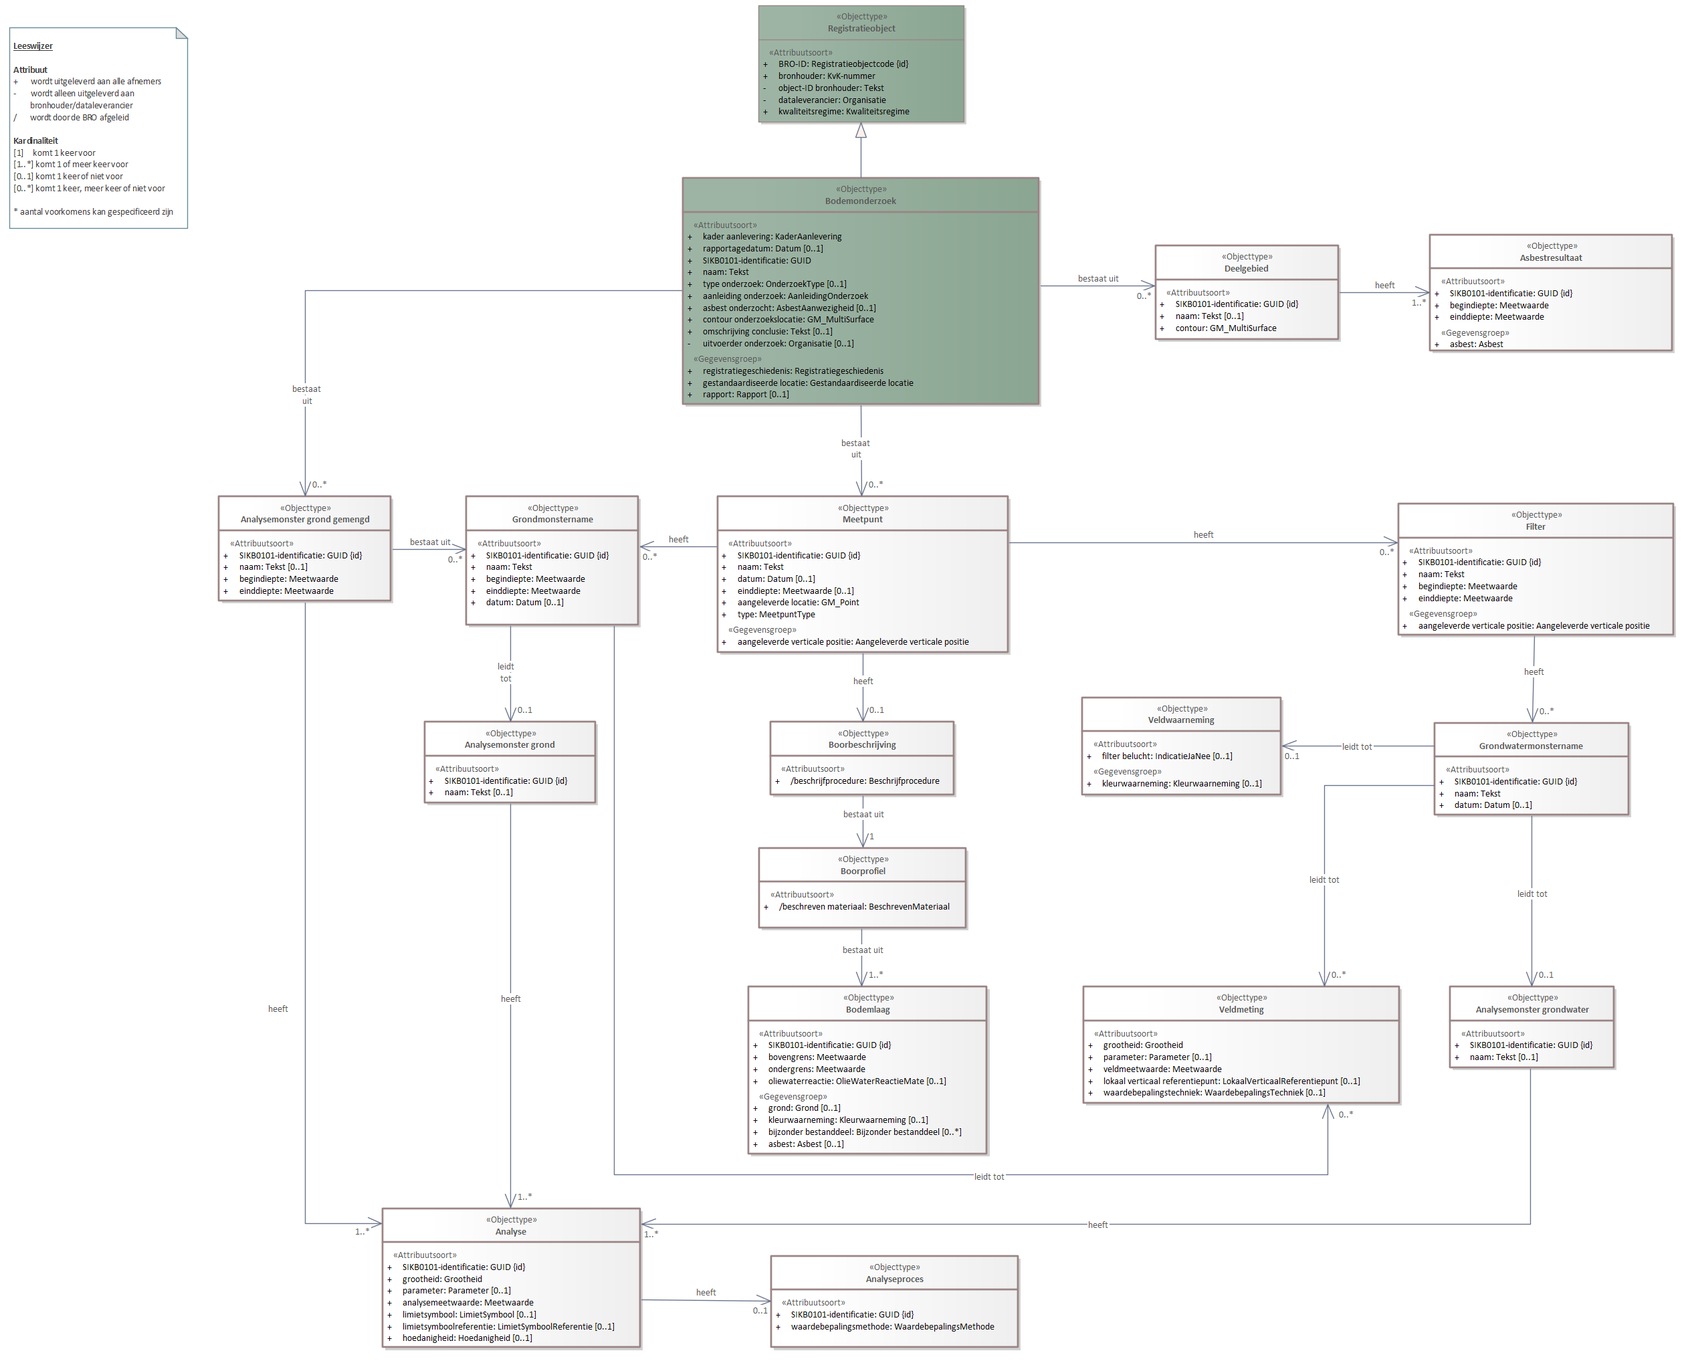
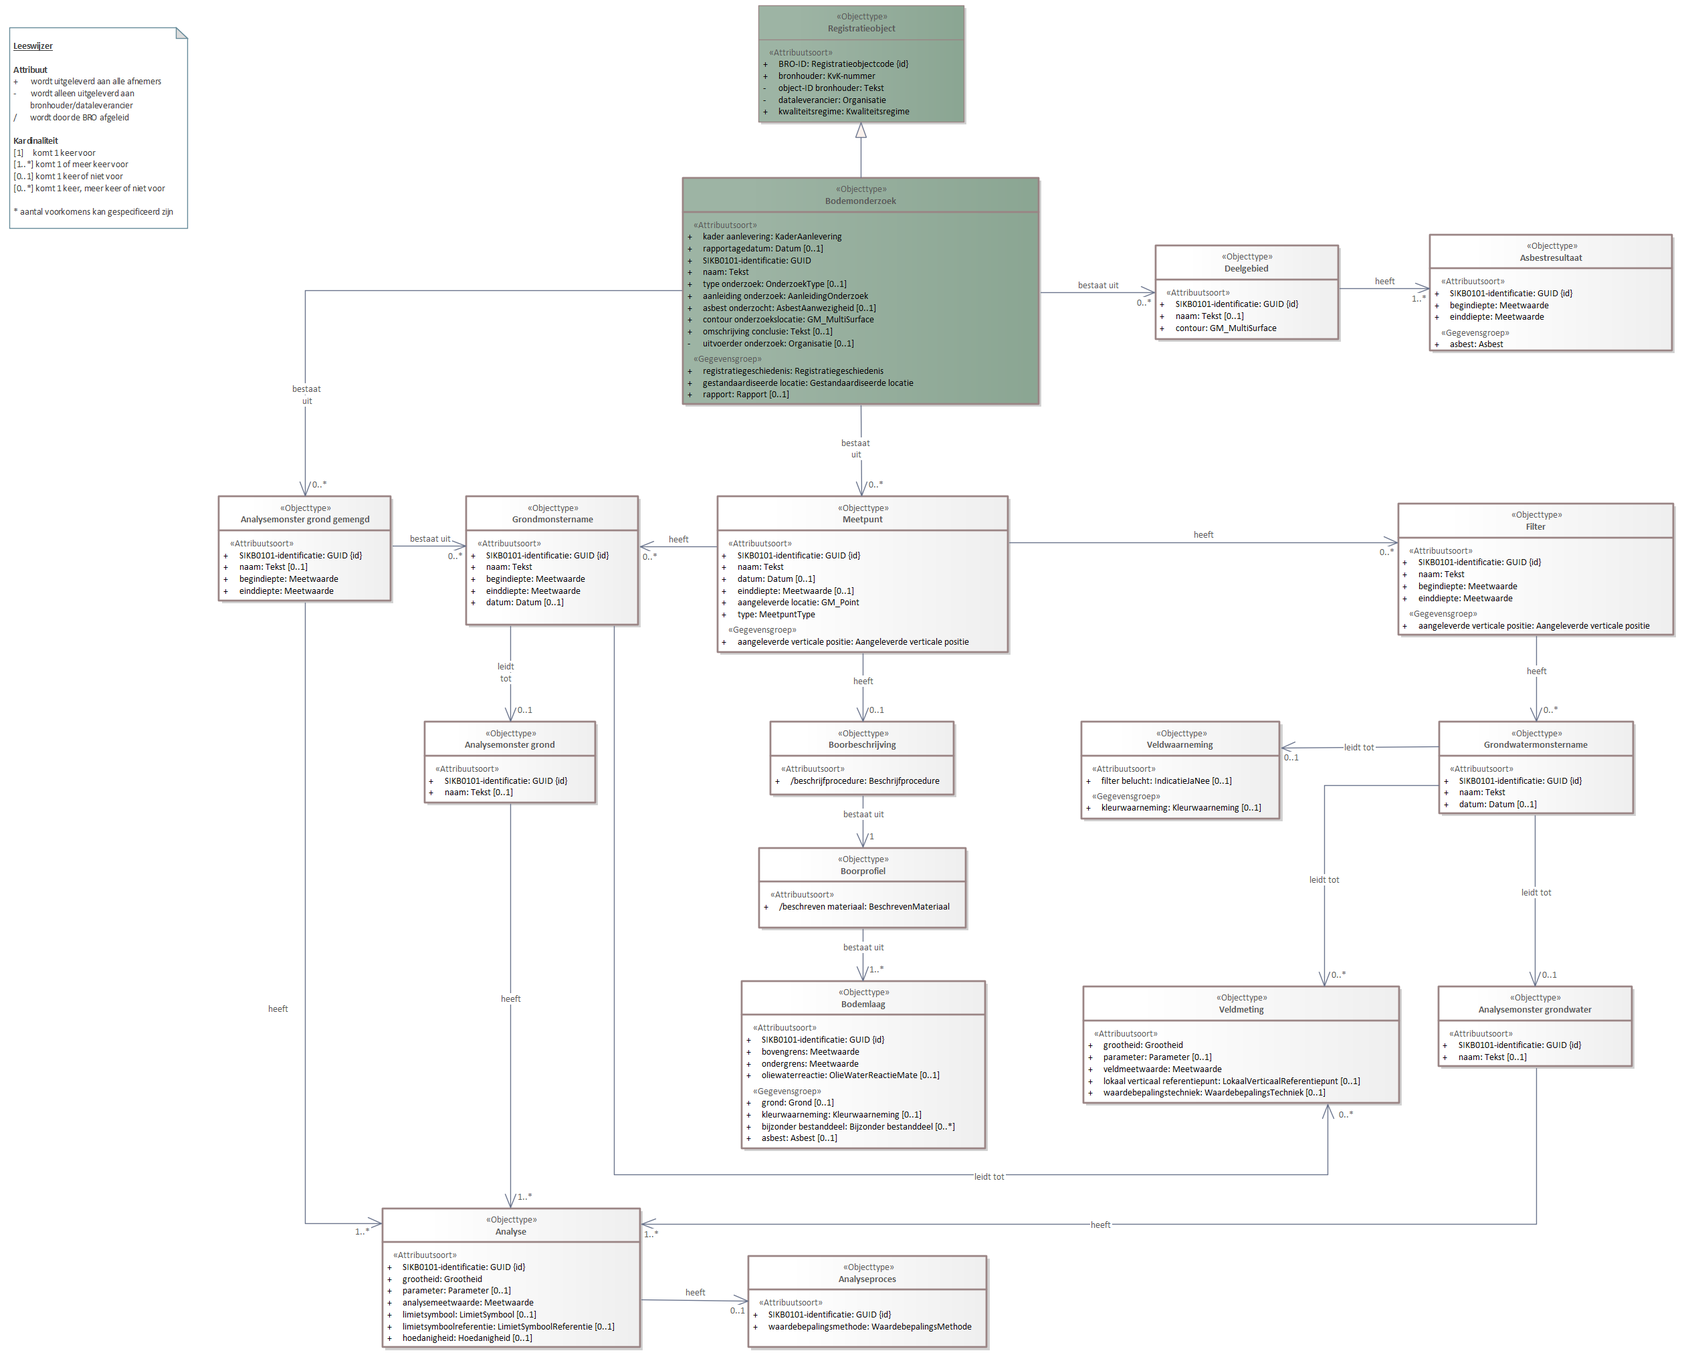
Conceptualmodel-MilieuhygienischbodemonderzoekSAD-1.08-1-20231205-20240213-112434

diff --git a/data/SAD-cat.msword.html b/data/SAD-cat.msword.html
@@ -15,7 +15,7 @@
    <body>
       <p>Conceptual model/Milieuhygienisch bodemonderzoek SAD/20231205</p>
       <p>Imvertor: Nightly-build.13</p>
-      <p>Model release: Conceptualmodel-MilieuhygienischbodemonderzoekSAD-1.08-1-20231205-20240213-110849</p>
+      <p>Model release: Conceptualmodel-MilieuhygienischbodemonderzoekSAD-1.08-1-20231205-20240213-112434</p>
       <hr>
       <section>
          <h1>Artikel 1 Definitie van registratieobject, entiteiten en attributen</h1>
@@ -67,7 +67,7 @@
          <section>
             <h2>Het domeinmodel</h2>
             <section>
-               <div class="imageinfo overview"><img src="Images/EAID_FABA90F8_223C_433d_BAE3_74F87B3DC220.png" usemap="#imagemap-EAID_FABA90F8_223C_433d_BAE3_74F87B3DC220" alt="Diagram &#xA;                        &#xA;                     "><map name="imagemap-EAID_FABA90F8_223C_433d_BAE3_74F87B3DC220"><area shape="rect" alt="Asbestresultaat" coords="2138,351,2501,525" href="#global_class_Model_Asbestresultaat"><area shape="rect" alt="Deelgebied" coords="1728,367,2002,508" href="#global_class_Model_Deelgebied"><area shape="rect" alt="Analyseproces" coords="1153,1878,1523,2015" href="#global_class_Model_Analyseproces"><area shape="rect" alt="Analyse" coords="572,1807,958,2015" href="#global_class_Model_Analyse"><area shape="rect" alt="Analysemonster grondwater" coords="2168,1475,2414,1597" href="#global_class_Model_Analysemonstergrondwater"><area shape="rect" alt="Analysemonster grond" coords="635,1079,891,1201" href="#global_class_Model_Analysemonstergrond"><area shape="rect" alt="Boorprofiel" coords="1135,1268,1445,1388" href="#global_class_Model_Boorprofiel"><area shape="rect" alt="Boorbeschrijving" coords="1152,1079,1427,1189" href="#global_class_Model_Boorbeschrijving"><area shape="rect" alt="Veldmeting" coords="1620,1475,2093,1650" href="#global_class_Model_Veldmeting"><area shape="rect" alt="Veldwaarneming" coords="1618,1043,1916,1189" href="#global_class_Model_Veldwaarneming"><area shape="rect" alt="Analysemonster grond gemengd" coords="327,742,585,899" href="#global_class_Model_Analysemonstergrondgemengd"><area shape="rect" alt="Grondwatermonstername" coords="2145,1081,2436,1219" href="#global_class_Model_Grondwatermonstername"><area shape="rect" alt="Grondmonstername" coords="697,742,955,935" href="#global_class_Model_Grondmonstername"><area shape="rect" alt="Filter" coords="2091,753,2503,950" href="#global_class_Model_Filter"><area shape="rect" alt="Bodemlaag" coords="1119,1475,1476,1726" href="#global_class_Model_Bodemlaag"><area shape="rect" alt="Meetpunt" coords="1073,742,1508,976" href="#global_class_Model_Meetpunt"><area shape="rect" alt="Registratieobject" coords="1134,8,1442,183" href="#global_class_Model_Registratieobject"><area shape="rect" alt="Bodemonderzoek" coords="1021,266,1554,605" href="#global_class_Model_Bodemonderzoek"></map><p><b>Domeinmodel milieuhygiënisch bodemonderzoek</b></p>
+               <div class="imageinfo overview"><img src="Images/EAID_FABA90F8_223C_433d_BAE3_74F87B3DC220.png" usemap="#imagemap-EAID_FABA90F8_223C_433d_BAE3_74F87B3DC220" alt="Diagram &#xA;                        &#xA;                     "><map name="imagemap-EAID_FABA90F8_223C_433d_BAE3_74F87B3DC220"><area shape="rect" alt="Asbestresultaat" coords="2138,351,2501,525" href="#global_class_Model_Asbestresultaat"><area shape="rect" alt="Deelgebied" coords="1728,367,2002,508" href="#global_class_Model_Deelgebied"><area shape="rect" alt="Analyseproces" coords="1119,1878,1476,2015" href="#global_class_Model_Analyseproces"><area shape="rect" alt="Analyse" coords="572,1807,958,2015" href="#global_class_Model_Analyse"><area shape="rect" alt="Analysemonster grondwater" coords="2151,1475,2441,1595" href="#global_class_Model_Analysemonstergrondwater"><area shape="rect" alt="Analysemonster grond" coords="635,1079,891,1201" href="#global_class_Model_Analysemonstergrond"><area shape="rect" alt="Boorprofiel" coords="1135,1268,1445,1388" href="#global_class_Model_Boorprofiel"><area shape="rect" alt="Boorbeschrijving" coords="1152,1079,1427,1189" href="#global_class_Model_Boorbeschrijving"><area shape="rect" alt="Veldmeting" coords="1620,1475,2093,1650" href="#global_class_Model_Veldmeting"><area shape="rect" alt="Veldwaarneming" coords="1617,1079,1914,1225" href="#global_class_Model_Veldwaarneming"><area shape="rect" alt="Analysemonster grond gemengd" coords="327,742,585,899" href="#global_class_Model_Analysemonstergrondgemengd"><area shape="rect" alt="Grondwatermonstername" coords="2152,1079,2443,1217" href="#global_class_Model_Grondwatermonstername"><area shape="rect" alt="Grondmonstername" coords="697,742,955,935" href="#global_class_Model_Grondmonstername"><area shape="rect" alt="Filter" coords="2091,753,2503,950" href="#global_class_Model_Filter"><area shape="rect" alt="Bodemlaag" coords="1109,1467,1474,1718" href="#global_class_Model_Bodemlaag"><area shape="rect" alt="Meetpunt" coords="1073,742,1508,976" href="#global_class_Model_Meetpunt"><area shape="rect" alt="Registratieobject" coords="1134,8,1442,183" href="#global_class_Model_Registratieobject"><area shape="rect" alt="Bodemonderzoek" coords="1021,266,1554,605" href="#global_class_Model_Bodemonderzoek"></map><p><b>Domeinmodel milieuhygiënisch bodemonderzoek</b></p>
                </div>
             </section>
          </section>
@@ -771,11 +771,11 @@
                               <th>Toelichting</th>
                               <td>
                                  
-                                 <p>Voor gegevens die zijn aangeleverd onder IMBRO/A in het kader van archiefoverdracht
-                                    is het gegeven niet altijd vastgelegd.
-                                    Afhankelijk van de gehanteerde onderzoeksmethode kunnen de asbestresultaten betrekking
+                                 <p>Afhankelijk van de gehanteerde onderzoeksmethode kunnen de asbestresultaten betrekking
                                     hebben op een (dieptetraject binnen) een deelgebied of op de bodemlaag van een individueel
-                                    meetpunt.</p>
+                                    meetpunt.<br clear="none">
+                                    Voor gegevens die zijn aangeleverd onder IMBRO/A in het kader van archiefoverdracht
+                                    is het gegeven <em>asbest onderzocht</em> niet altijd vastgelegd.</p>
                                  </td>
                            </tr>
                         </tbody>
@@ -941,7 +941,7 @@
                         </tbody>
                      </table>
                      </section>
-                  <section id="detail_d104896e4984">
+                  <section id="detail_d104896e4989">
                      <h4>  registratiegeschiedenis</h4>
                      <table style="width: 100%;">
                         <colgroup style="width: 30%;"></colgroup>
@@ -989,7 +989,7 @@
                         </tbody>
                      </table>
                   </section>
-                  <section id="detail_d104896e5212">
+                  <section id="detail_d104896e5217">
                      <h4>  gestandaardiseerde locatie</h4>
                      <table style="width: 100%;">
                         <colgroup style="width: 30%;"></colgroup>
@@ -1034,7 +1034,7 @@
                         </tbody>
                      </table>
                   </section>
-                  <section id="detail_d104896e5440">
+                  <section id="detail_d104896e5445">
                      <h4>  rapport</h4>
                      <table style="width: 100%;">
                         <colgroup style="width: 30%;"></colgroup>
@@ -2508,7 +2508,7 @@
                         </tbody>
                      </table>
                      </section>
-                  <section id="detail_d104896e11004">
+                  <section id="detail_d104896e11009">
                      <h4>  aangeleverde verticale positie</h4>
                      <table style="width: 100%;">
                         <colgroup style="width: 30%;"></colgroup>
@@ -3464,7 +3464,7 @@
                         </tbody>
                      </table>
                      </section>
-                  <section id="detail_d104896e14114">
+                  <section id="detail_d104896e14119">
                      <h4>  grond</h4>
                      <table style="width: 100%;">
                         <colgroup style="width: 30%;"></colgroup>
@@ -3507,7 +3507,7 @@
                         </tbody>
                      </table>
                   </section>
-                  <section id="detail_d104896e14346">
+                  <section id="detail_d104896e14351">
                      <h4>  kleurwaarneming</h4>
                      <table style="width: 100%;">
                         <colgroup style="width: 30%;"></colgroup>
@@ -3541,7 +3541,7 @@
                         </tbody>
                      </table>
                   </section>
-                  <section id="detail_d104896e14531">
+                  <section id="detail_d104896e14536">
                      <h4>  bijzonder bestanddeel</h4>
                      <table style="width: 100%;">
                         <colgroup style="width: 30%;"></colgroup>
@@ -3575,7 +3575,7 @@
                         </tbody>
                      </table>
                   </section>
-                  <section id="detail_d104896e14716">
+                  <section id="detail_d104896e14721">
                      <h4>  asbest</h4>
                      <table style="width: 100%;">
                         <colgroup style="width: 30%;"></colgroup>
@@ -5470,7 +5470,7 @@
                         </tbody>
                      </table>
                      </section>
-                  <section id="detail_d104896e22114">
+                  <section id="detail_d104896e22119">
                      <h4>  aangeleverde verticale positie</h4>
                      <table style="width: 100%;">
                         <colgroup style="width: 30%;"></colgroup>
@@ -5939,7 +5939,7 @@
                         </tbody>
                      </table>
                      </section>
-                  <section id="detail_d104896e23931">
+                  <section id="detail_d104896e23936">
                      <h4>  kleurwaarneming</h4>
                      <table style="width: 100%;">
                         <colgroup style="width: 30%;"></colgroup>
@@ -7484,7 +7484,7 @@
                         </tbody>
                      </table>
                      </section>
-                  <section id="detail_d104896e29684">
+                  <section id="detail_d104896e29689">
                      <h4>  asbest</h4>
                      <table style="width: 100%;">
                         <colgroup style="width: 30%;"></colgroup>

diff --git a/data/SAD-cat.respec.html b/data/SAD-cat.respec.html
@@ -45,7 +45,7 @@
       </section>
    <section>
       <h2>Het domeinmodel   </h2>
-      <div class="imageinfo overview"><img src="data/Images/EAID_FABA90F8_223C_433d_BAE3_74F87B3DC220.png" usemap="#imagemap-EAID_FABA90F8_223C_433d_BAE3_74F87B3DC220" alt="Diagram &#xA;                        &#xA;                     "><map name="imagemap-EAID_FABA90F8_223C_433d_BAE3_74F87B3DC220"><area shape="rect" alt="Asbestresultaat" coords="2138,351,2501,525" href="#global_class_Model_Asbestresultaat"><area shape="rect" alt="Deelgebied" coords="1728,367,2002,508" href="#global_class_Model_Deelgebied"><area shape="rect" alt="Analyseproces" coords="1153,1878,1523,2015" href="#global_class_Model_Analyseproces"><area shape="rect" alt="Analyse" coords="572,1807,958,2015" href="#global_class_Model_Analyse"><area shape="rect" alt="Analysemonster grondwater" coords="2168,1475,2414,1597" href="#global_class_Model_Analysemonstergrondwater"><area shape="rect" alt="Analysemonster grond" coords="635,1079,891,1201" href="#global_class_Model_Analysemonstergrond"><area shape="rect" alt="Boorprofiel" coords="1135,1268,1445,1388" href="#global_class_Model_Boorprofiel"><area shape="rect" alt="Boorbeschrijving" coords="1152,1079,1427,1189" href="#global_class_Model_Boorbeschrijving"><area shape="rect" alt="Veldmeting" coords="1620,1475,2093,1650" href="#global_class_Model_Veldmeting"><area shape="rect" alt="Veldwaarneming" coords="1618,1043,1916,1189" href="#global_class_Model_Veldwaarneming"><area shape="rect" alt="Analysemonster grond gemengd" coords="327,742,585,899" href="#global_class_Model_Analysemonstergrondgemengd"><area shape="rect" alt="Grondwatermonstername" coords="2145,1081,2436,1219" href="#global_class_Model_Grondwatermonstername"><area shape="rect" alt="Grondmonstername" coords="697,742,955,935" href="#global_class_Model_Grondmonstername"><area shape="rect" alt="Filter" coords="2091,753,2503,950" href="#global_class_Model_Filter"><area shape="rect" alt="Bodemlaag" coords="1119,1475,1476,1726" href="#global_class_Model_Bodemlaag"><area shape="rect" alt="Meetpunt" coords="1073,742,1508,976" href="#global_class_Model_Meetpunt"><area shape="rect" alt="Registratieobject" coords="1134,8,1442,183" href="#global_class_Model_Registratieobject"><area shape="rect" alt="Bodemonderzoek" coords="1021,266,1554,605" href="#global_class_Model_Bodemonderzoek"></map><p><b>Domeinmodel milieuhygiënisch bodemonderzoek</b></p>
+      <div class="imageinfo overview"><img src="data/Images/EAID_FABA90F8_223C_433d_BAE3_74F87B3DC220.png" usemap="#imagemap-EAID_FABA90F8_223C_433d_BAE3_74F87B3DC220" alt="Diagram &#xA;                        &#xA;                     "><map name="imagemap-EAID_FABA90F8_223C_433d_BAE3_74F87B3DC220"><area shape="rect" alt="Asbestresultaat" coords="2138,351,2501,525" href="#global_class_Model_Asbestresultaat"><area shape="rect" alt="Deelgebied" coords="1728,367,2002,508" href="#global_class_Model_Deelgebied"><area shape="rect" alt="Analyseproces" coords="1119,1878,1476,2015" href="#global_class_Model_Analyseproces"><area shape="rect" alt="Analyse" coords="572,1807,958,2015" href="#global_class_Model_Analyse"><area shape="rect" alt="Analysemonster grondwater" coords="2151,1475,2441,1595" href="#global_class_Model_Analysemonstergrondwater"><area shape="rect" alt="Analysemonster grond" coords="635,1079,891,1201" href="#global_class_Model_Analysemonstergrond"><area shape="rect" alt="Boorprofiel" coords="1135,1268,1445,1388" href="#global_class_Model_Boorprofiel"><area shape="rect" alt="Boorbeschrijving" coords="1152,1079,1427,1189" href="#global_class_Model_Boorbeschrijving"><area shape="rect" alt="Veldmeting" coords="1620,1475,2093,1650" href="#global_class_Model_Veldmeting"><area shape="rect" alt="Veldwaarneming" coords="1617,1079,1914,1225" href="#global_class_Model_Veldwaarneming"><area shape="rect" alt="Analysemonster grond gemengd" coords="327,742,585,899" href="#global_class_Model_Analysemonstergrondgemengd"><area shape="rect" alt="Grondwatermonstername" coords="2152,1079,2443,1217" href="#global_class_Model_Grondwatermonstername"><area shape="rect" alt="Grondmonstername" coords="697,742,955,935" href="#global_class_Model_Grondmonstername"><area shape="rect" alt="Filter" coords="2091,753,2503,950" href="#global_class_Model_Filter"><area shape="rect" alt="Bodemlaag" coords="1109,1467,1474,1718" href="#global_class_Model_Bodemlaag"><area shape="rect" alt="Meetpunt" coords="1073,742,1508,976" href="#global_class_Model_Meetpunt"><area shape="rect" alt="Registratieobject" coords="1134,8,1442,183" href="#global_class_Model_Registratieobject"><area shape="rect" alt="Bodemonderzoek" coords="1021,266,1554,605" href="#global_class_Model_Bodemonderzoek"></map><p><b>Domeinmodel milieuhygiënisch bodemonderzoek</b></p>
       </div>
    </section>
    <section>
@@ -747,11 +747,11 @@
                      <th>Toelichting</th>
                      <td>
                         
-                        <p>Voor gegevens die zijn aangeleverd onder IMBRO/A in het kader van archiefoverdracht
-                           is het gegeven niet altijd vastgelegd.
-                           Afhankelijk van de gehanteerde onderzoeksmethode kunnen de asbestresultaten betrekking
+                        <p>Afhankelijk van de gehanteerde onderzoeksmethode kunnen de asbestresultaten betrekking
                            hebben op een (dieptetraject binnen) een deelgebied of op de bodemlaag van een individueel
-                           meetpunt.</p>
+                           meetpunt.<br clear="none">
+                           Voor gegevens die zijn aangeleverd onder IMBRO/A in het kader van archiefoverdracht
+                           is het gegeven <em>asbest onderzocht</em> niet altijd vastgelegd.</p>
                         </td>
                   </tr>
                </tbody>
@@ -917,7 +917,7 @@
                </tbody>
             </table>
             </section>
-         <section id="detail_d104896e4984">
+         <section id="detail_d104896e4989">
             <h4>  registratiegeschiedenis</h4>
             <table style="width: 100%;">
                <colgroup style="width: 30%;"></colgroup>
@@ -965,7 +965,7 @@
                </tbody>
             </table>
          </section>
-         <section id="detail_d104896e5212">
+         <section id="detail_d104896e5217">
             <h4>  gestandaardiseerde locatie</h4>
             <table style="width: 100%;">
                <colgroup style="width: 30%;"></colgroup>
@@ -1010,7 +1010,7 @@
                </tbody>
             </table>
          </section>
-         <section id="detail_d104896e5440">
+         <section id="detail_d104896e5445">
             <h4>  rapport</h4>
             <table style="width: 100%;">
                <colgroup style="width: 30%;"></colgroup>
@@ -2484,7 +2484,7 @@
                </tbody>
             </table>
             </section>
-         <section id="detail_d104896e11004">
+         <section id="detail_d104896e11009">
             <h4>  aangeleverde verticale positie</h4>
             <table style="width: 100%;">
                <colgroup style="width: 30%;"></colgroup>
@@ -3440,7 +3440,7 @@
                </tbody>
             </table>
             </section>
-         <section id="detail_d104896e14114">
+         <section id="detail_d104896e14119">
             <h4>  grond</h4>
             <table style="width: 100%;">
                <colgroup style="width: 30%;"></colgroup>
@@ -3483,7 +3483,7 @@
                </tbody>
             </table>
          </section>
-         <section id="detail_d104896e14346">
+         <section id="detail_d104896e14351">
             <h4>  kleurwaarneming</h4>
             <table style="width: 100%;">
                <colgroup style="width: 30%;"></colgroup>
@@ -3517,7 +3517,7 @@
                </tbody>
             </table>
          </section>
-         <section id="detail_d104896e14531">
+         <section id="detail_d104896e14536">
             <h4>  bijzonder bestanddeel</h4>
             <table style="width: 100%;">
                <colgroup style="width: 30%;"></colgroup>
@@ -3551,7 +3551,7 @@
                </tbody>
             </table>
          </section>
-         <section id="detail_d104896e14716">
+         <section id="detail_d104896e14721">
             <h4>  asbest</h4>
             <table style="width: 100%;">
                <colgroup style="width: 30%;"></colgroup>
@@ -5446,7 +5446,7 @@
                </tbody>
             </table>
             </section>
-         <section id="detail_d104896e22114">
+         <section id="detail_d104896e22119">
             <h4>  aangeleverde verticale positie</h4>
             <table style="width: 100%;">
                <colgroup style="width: 30%;"></colgroup>
@@ -5915,7 +5915,7 @@
                </tbody>
             </table>
             </section>
-         <section id="detail_d104896e23931">
+         <section id="detail_d104896e23936">
             <h4>  kleurwaarneming</h4>
             <table style="width: 100%;">
                <colgroup style="width: 30%;"></colgroup>
@@ -7460,7 +7460,7 @@
                </tbody>
             </table>
             </section>
-         <section id="detail_d104896e29684">
+         <section id="detail_d104896e29689">
             <h4>  asbest</h4>
             <table style="width: 100%;">
                <colgroup style="width: 30%;"></colgroup>
